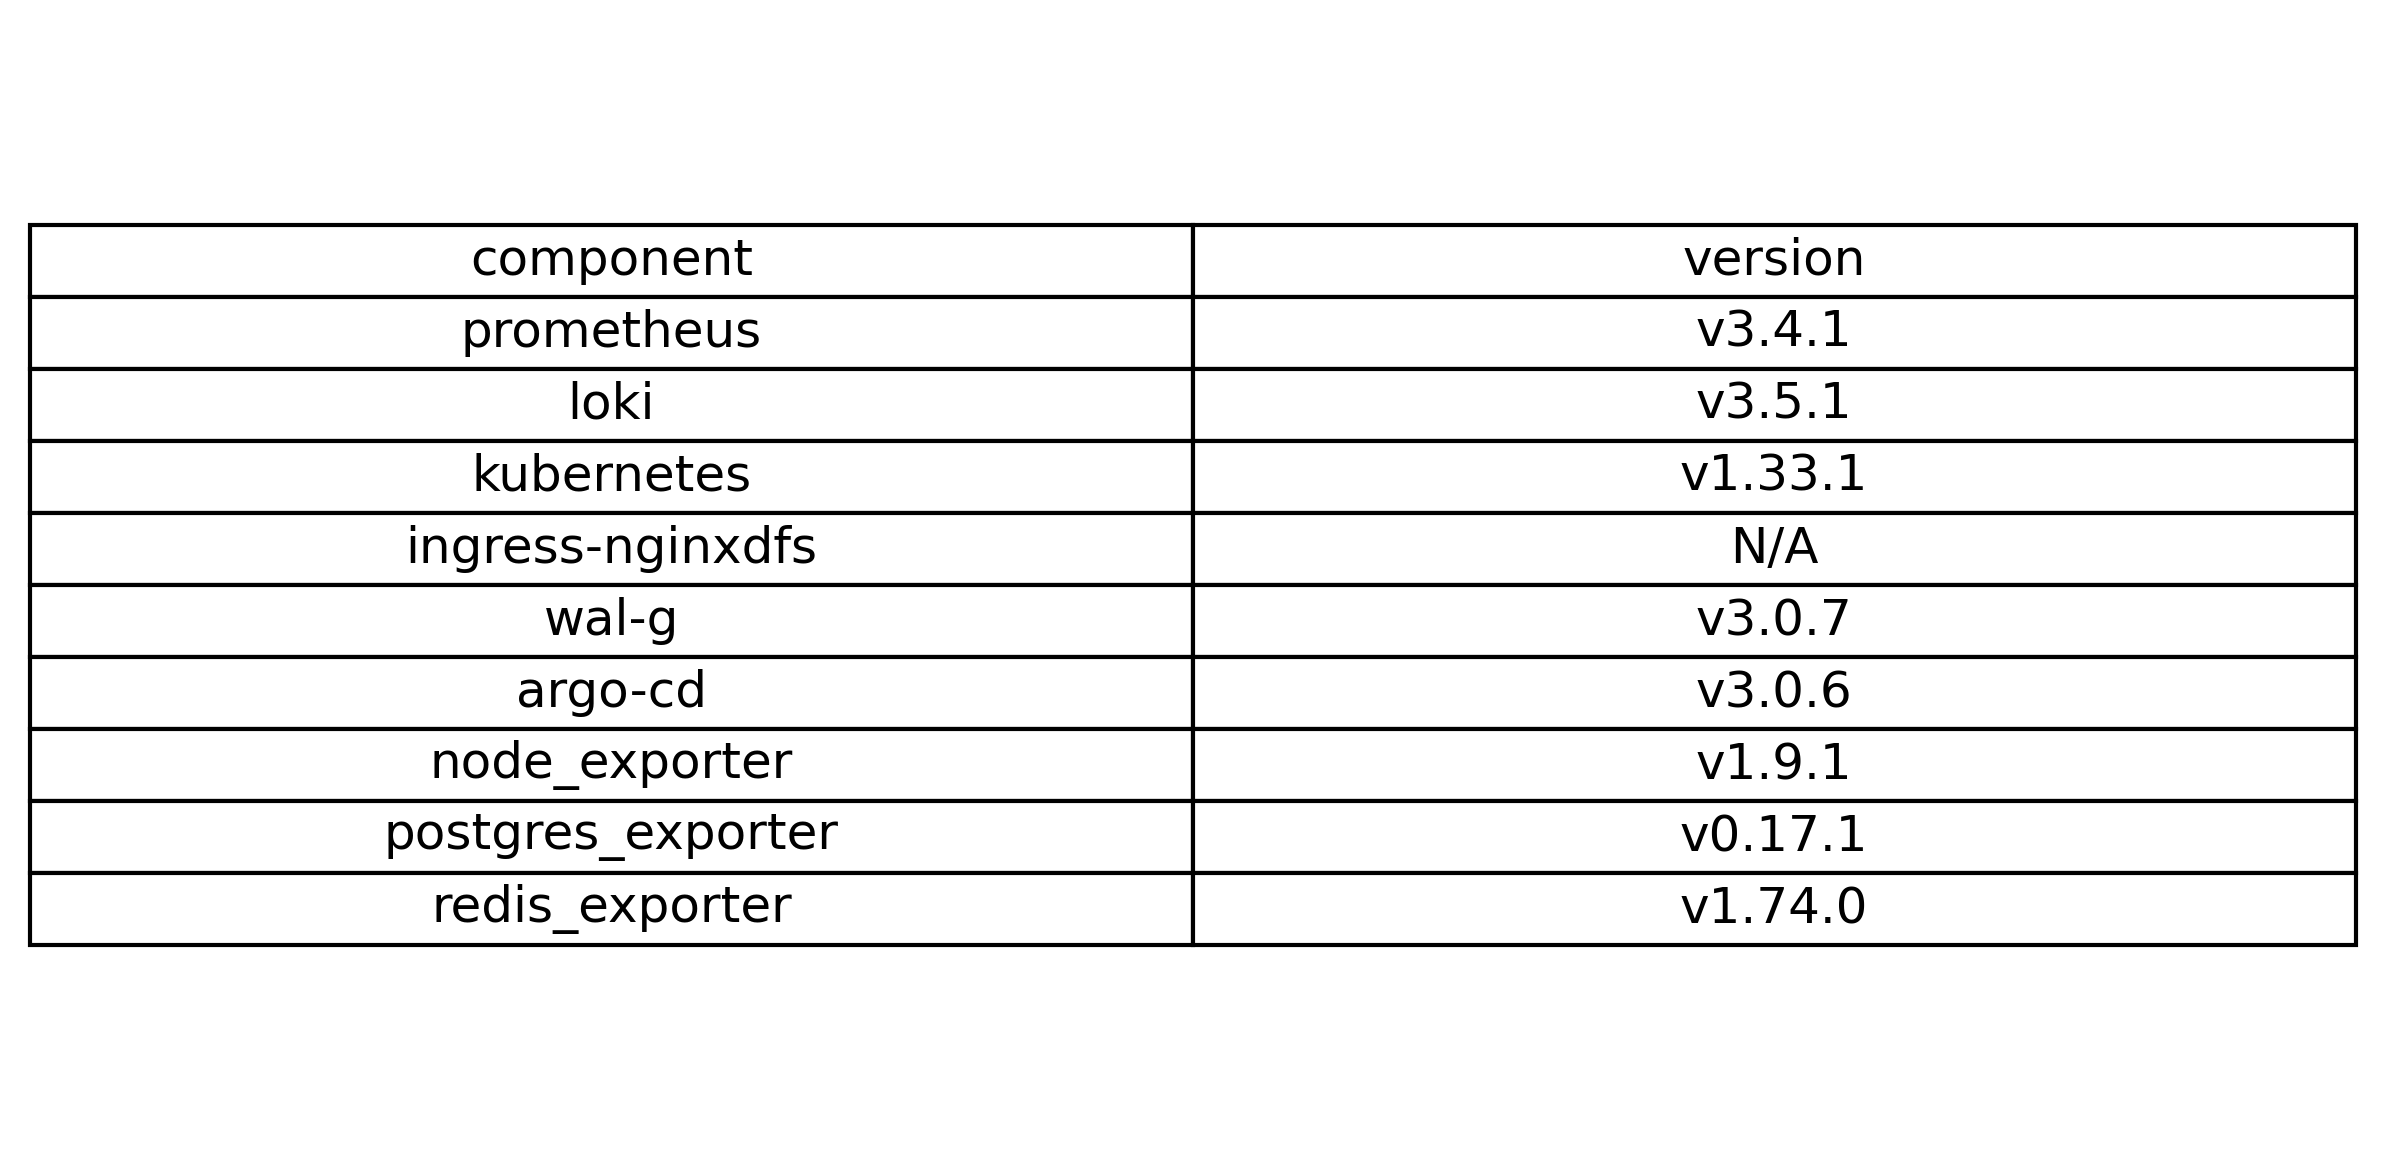
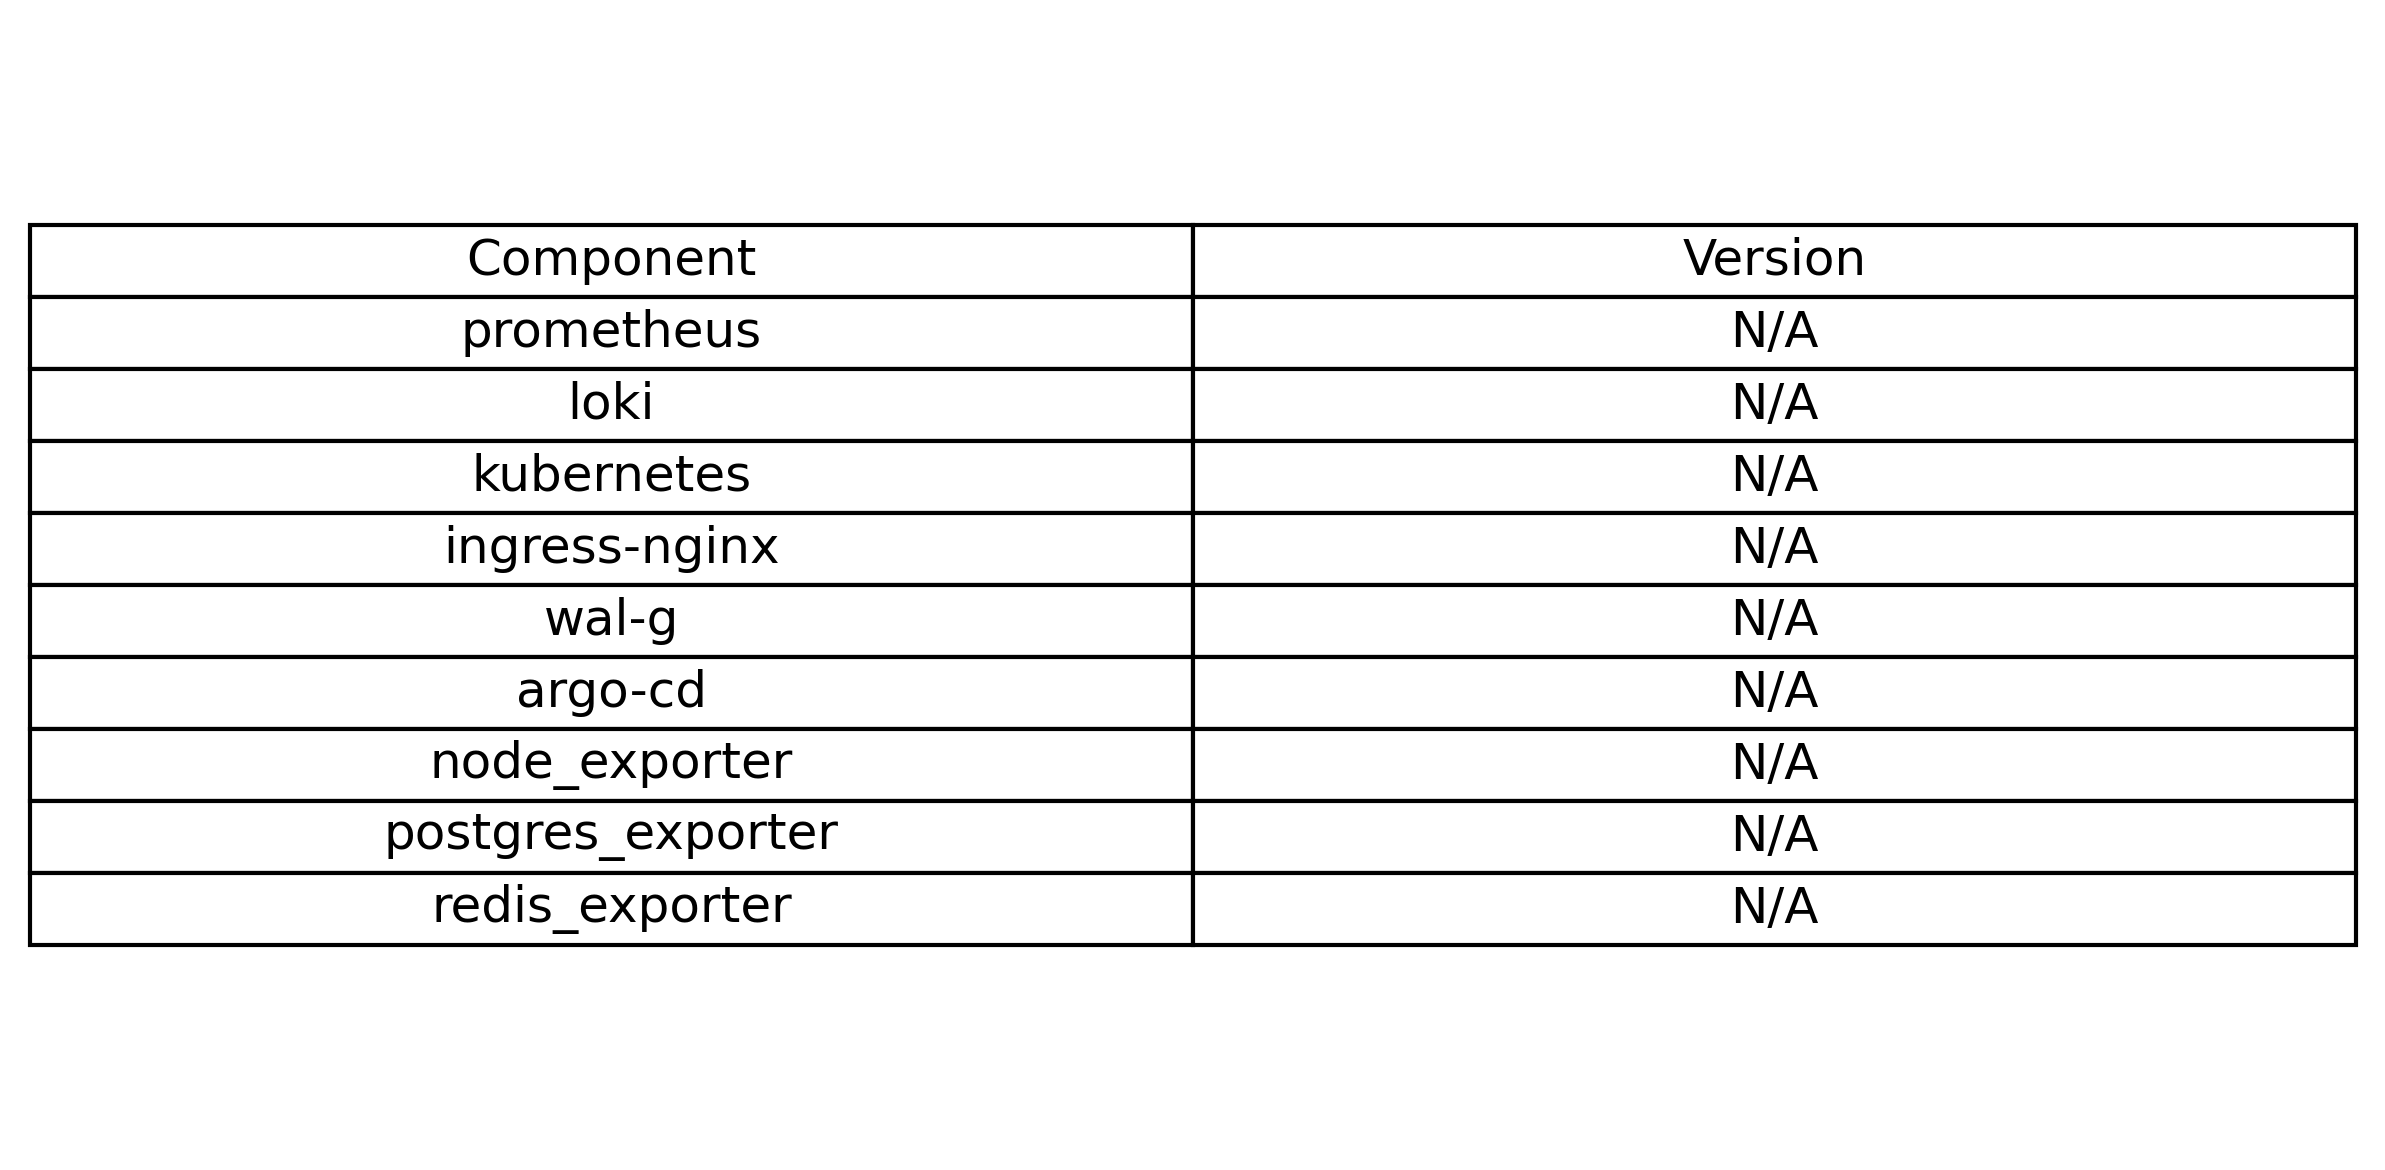
test text png 3

diff --git a/scripts/get_versions.py b/scripts/get_versions.py
@@ -7,7 +7,7 @@ REPOS = [
     "prometheus/prometheus",
     "grafana/loki",
     "kubernetes/kubernetes",
-    "kubernetes/ingress-nginxdfs",
+    "kubernetes/ingress-nginx",
     "wal-g/wal-g",
     "argoproj/argo-cd",
     "prometheus/node_exporter",
@@ -26,7 +26,7 @@ table = []
 for repo in REPOS:
     name = repo.split("/")[-1]
     version = get_latest_version(repo)
-    table.append({'component': name, 'version': version})
+    table.append({'Component': name, 'Version': version})
 
 df = pd.DataFrame(table)
 
@@ -42,4 +42,4 @@ table.scale(1.2, 1.2)
 plt.tight_layout()
 
 plt.savefig('output.png', dpi=300, bbox_inches='tight')
-plt.show()
+# plt.show()
